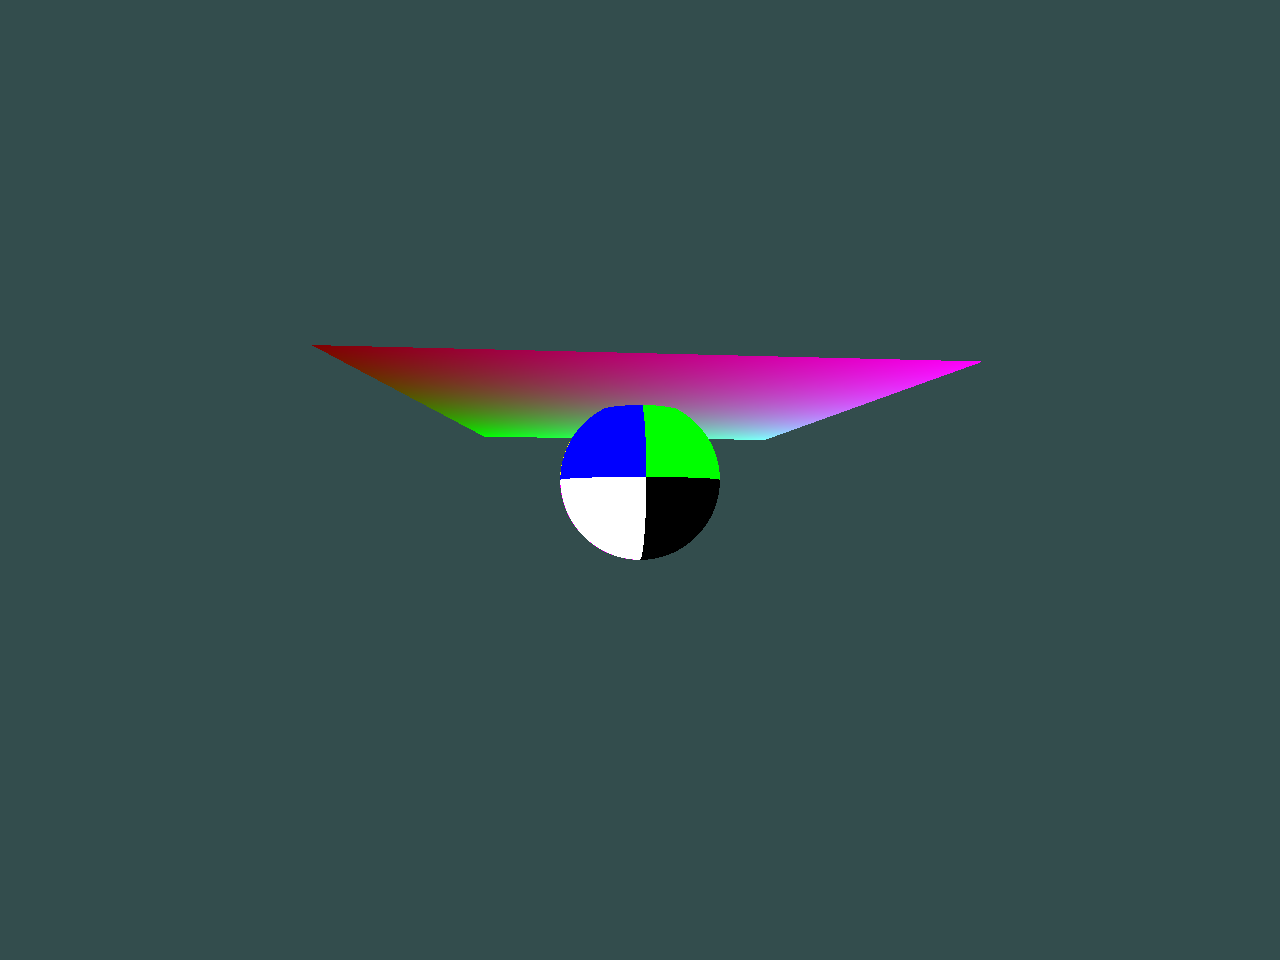
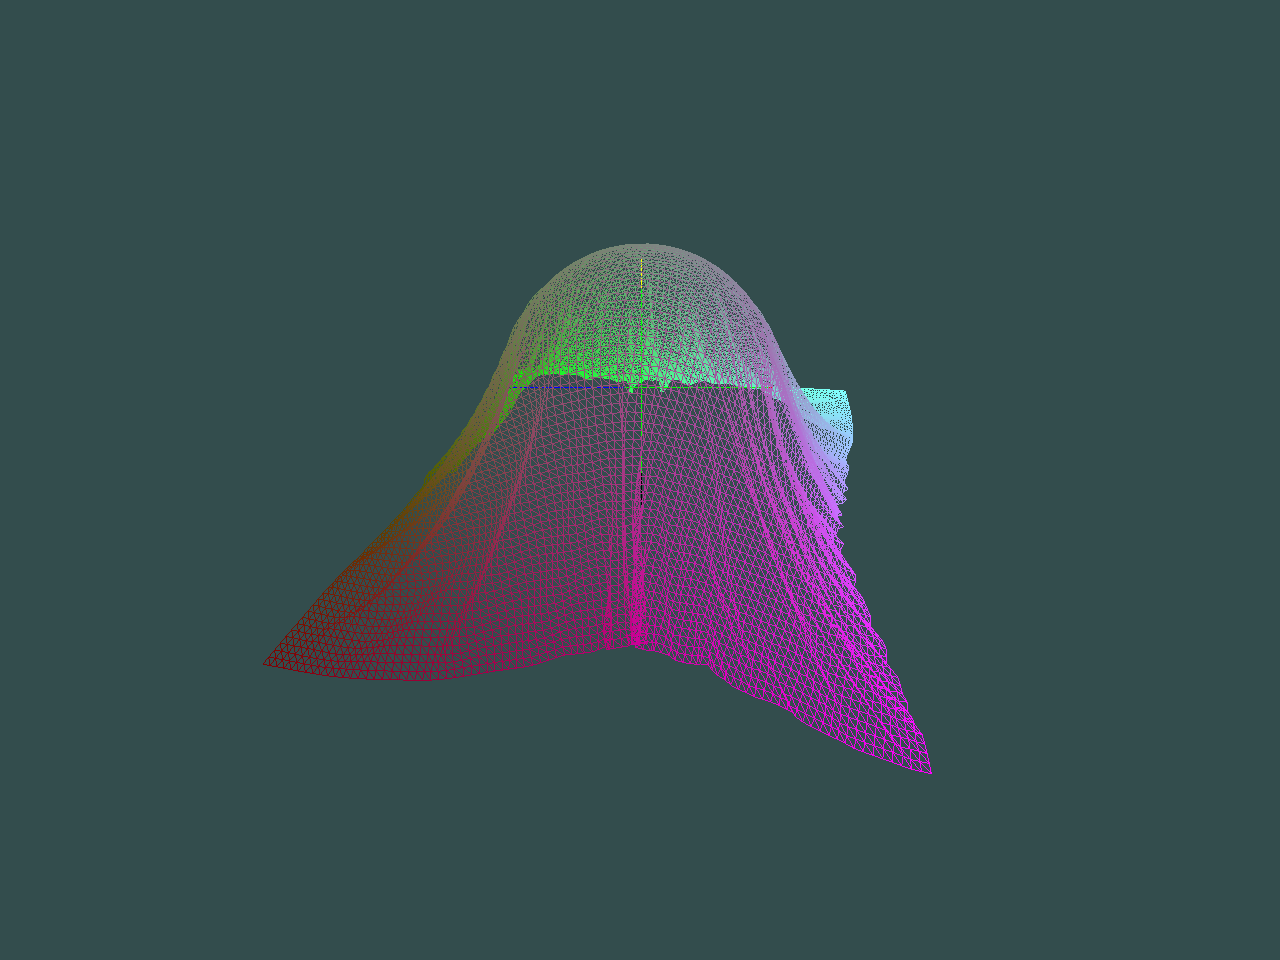
Update screenshot

Changed region(s): [[0.2188, 0.25, 0.75, 0.8125]]

diff --git a/main.py b/main.py
@@ -36,7 +36,7 @@ def main():
     # Parameters
     os.system("PYOPENCL_COMPILER_OUTPUT=1")
     device = "GPU"
-    n = 200 # 00x100 = 10 000 | 300x300 = 100 000 | 700x700 = 490 000  
+    n = 100 # 00x100 = 10 000 | 300x300 = 100 000 | 700x700 = 490 000  
     # Scene
     clothdynamic(viewer, device, n)  # l'objectif c'est 100 !!!
     

diff --git a/dynamics/cloth_dynamic_system_GPU.py b/dynamics/cloth_dynamic_system_GPU.py
@@ -104,7 +104,7 @@ class ClothDynamicSystem_GPU(AbstractDynamicSystem):
         # forces
 
         # Animations parameters
-        self.substep = 150
+        self.substep = 250
         self.delta = 1./(self.substep * 24.)
         self.E = 1e5 # Contact (young modulus of sphere)
         self.l0 = 10/(sqrt(mesh.nbVertices)-1)
